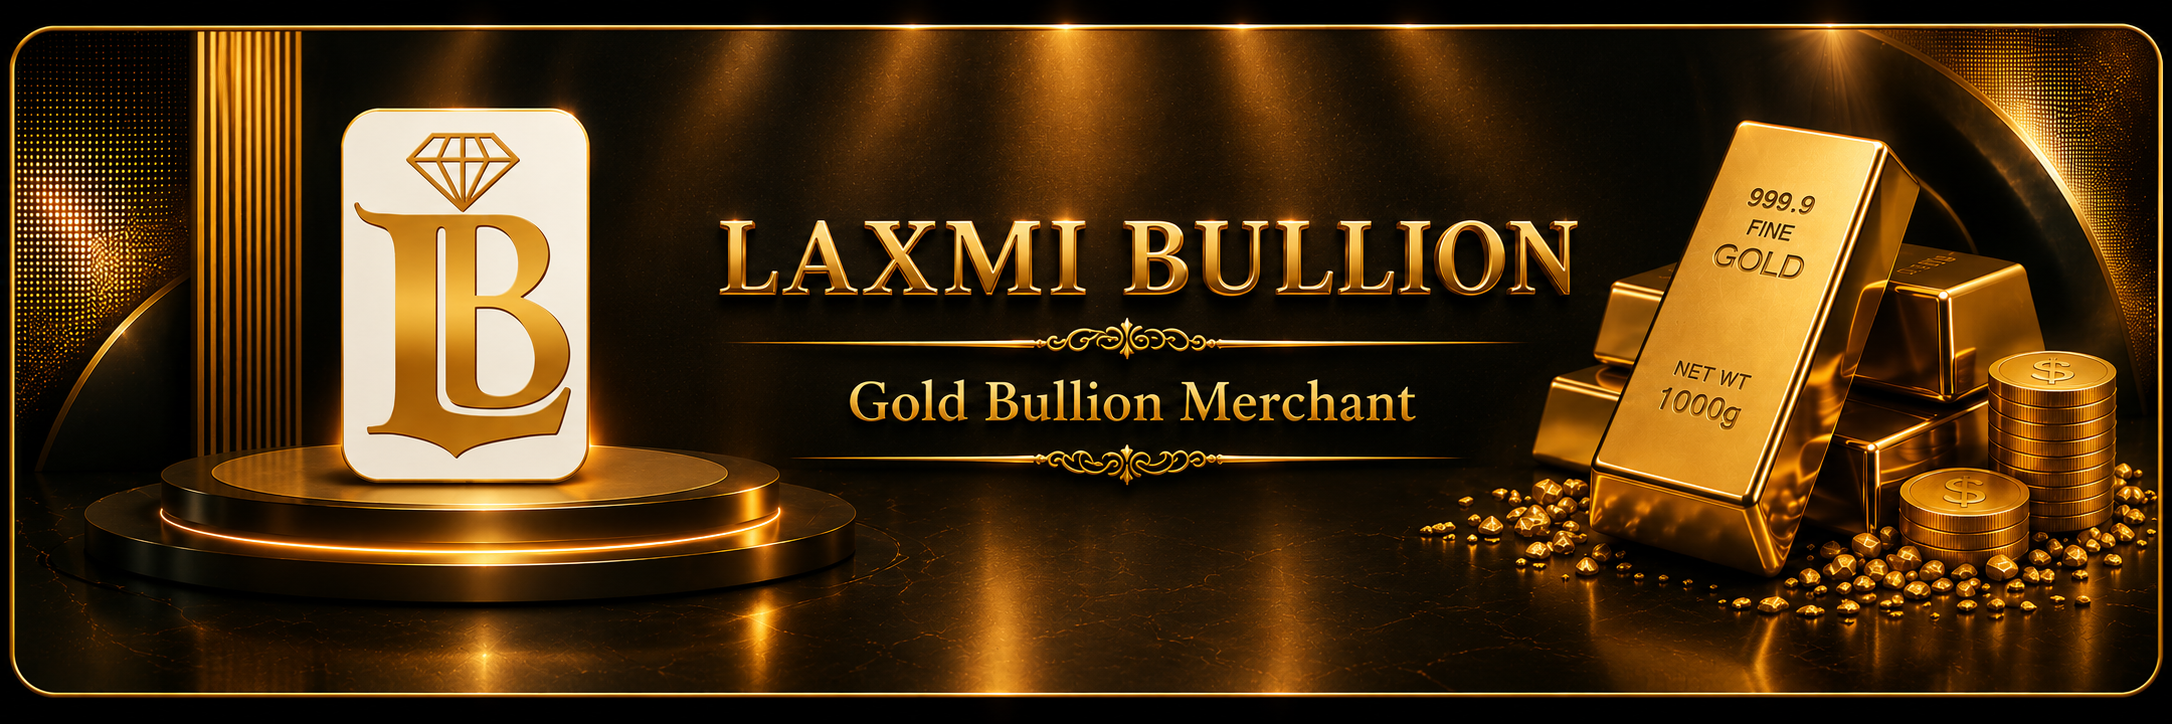
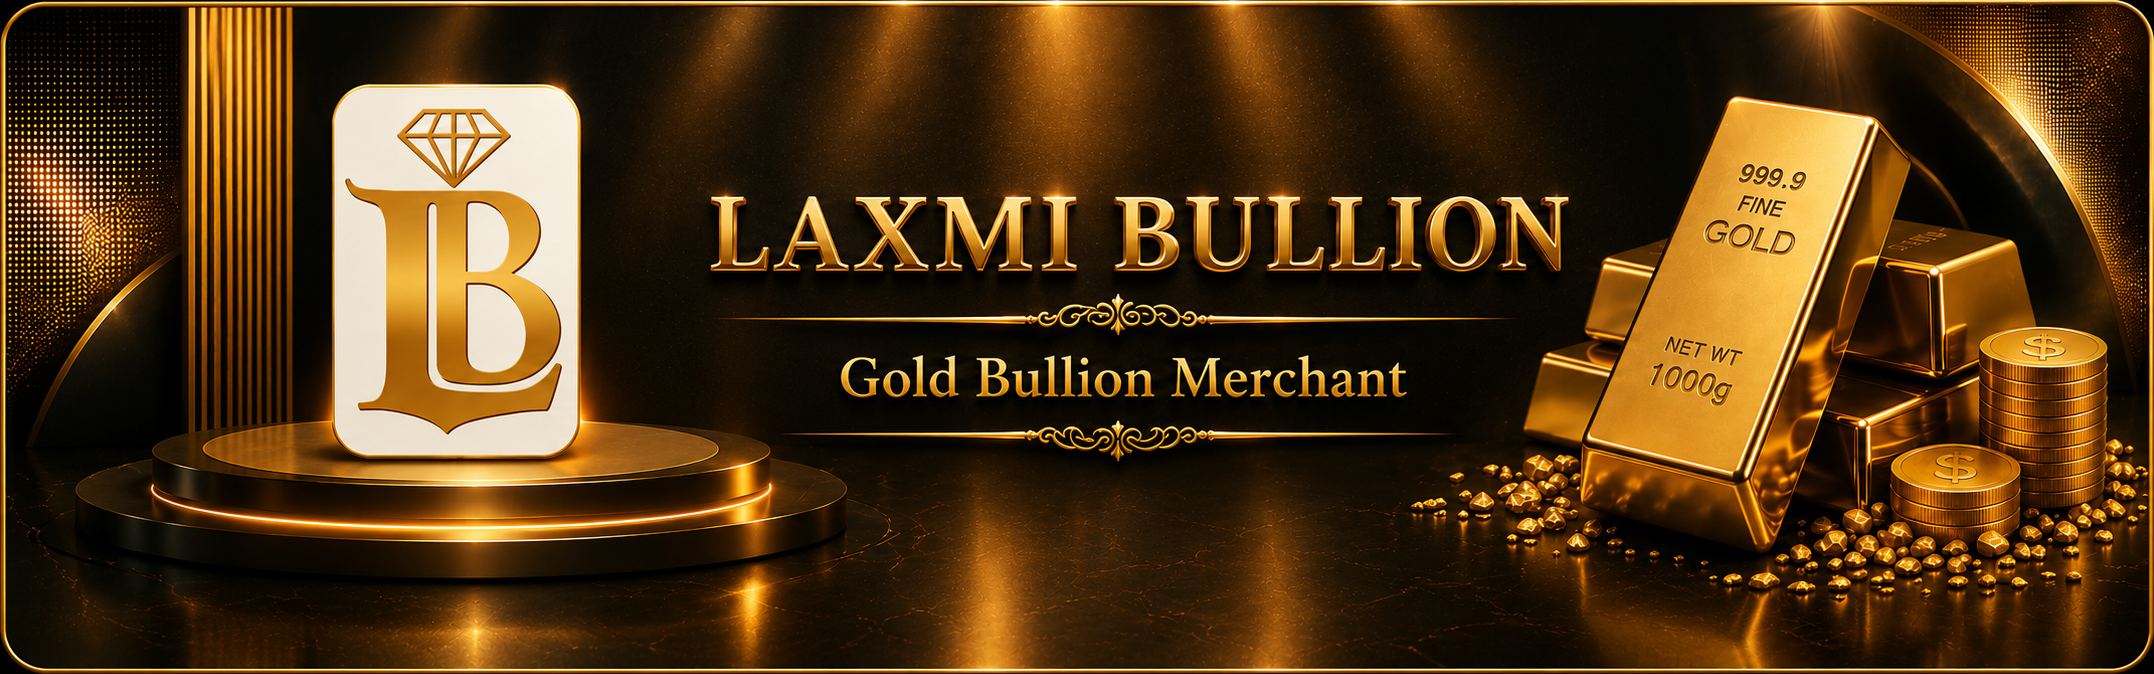
Fix mobile header sizing and app download detection
- Adjust hero aspect-ratios for mobile: 16/9 at 820px, 2/1 at 560px
- Add object-position tuning and tighter contact padding on small screens
- Add missing #download-row and #download-link elements to HTML
- Rewrite device detection: primary via userAgentData.getHighEntropyValues,
  fallback via UA string regex with iPadOS 13+ handling
- Update header banner image

diff --git a/assets/js/site.js b/assets/js/site.js
@@ -3,40 +3,78 @@
   const appStoreUrl = "https://apps.apple.com/in/app/shubhlaxmi-jewellers/id1578511201";
   const downloadRow = document.getElementById("download-row");
   const downloadLink = document.getElementById("download-link");
-
-  if (!downloadRow || !downloadLink) {
-    return;
-  }
-
-  const userAgent = navigator.userAgent || "";
-  const platform = (navigator.userAgentData && navigator.userAgentData.platform) || navigator.platform || "";
-  const isAndroid = /Android/i.test(userAgent) || /Android/i.test(platform);
-  const isAppleMobile = /iPhone|iPad|iPod/i.test(userAgent) || (/Mac/i.test(platform) && navigator.maxTouchPoints > 1);
-
   const fallbackRow = document.getElementById("download-fallback");
 
-  if (!fallbackRow) {
+  if (!downloadRow || !downloadLink || !fallbackRow) {
     return;
   }
 
-  if (isAndroid) {
-    downloadLink.href = playStoreUrl;
-    downloadLink.textContent = "Shubhlaxmi Jewellers – Apps on Google Play";
-    downloadLink.title = "Open Shubhlaxmi Jewellers on Google Play";
+  function showDownload(url, label, title) {
+    downloadLink.href = url;
+    downloadLink.textContent = label;
+    downloadLink.title = title;
     downloadRow.hidden = false;
     fallbackRow.hidden = true;
+  }
+
+  function showFallback() {
+    downloadRow.hidden = true;
+    fallbackRow.hidden = false;
+  }
+
+  // Modern detection via User-Agent Client Hints (Chromium 90+)
+  if (navigator.userAgentData && navigator.userAgentData.getHighEntropyValues) {
+    navigator.userAgentData
+      .getHighEntropyValues(["platform", "platformVersion"])
+      .then(function (ua) {
+        var platform = (ua.platform || "").toLowerCase();
+
+        if (platform === "android") {
+          showDownload(
+            playStoreUrl,
+            "Shubhlaxmi Jewellers \u2013 Apps on Google Play",
+            "Open Shubhlaxmi Jewellers on Google Play"
+          );
+        } else if (platform === "ios" || platform === "macos") {
+          showDownload(
+            appStoreUrl,
+            "Shubhlaxmi Jewellers App \u2013 App Store",
+            "Open Shubhlaxmi Jewellers App on the App Store"
+          );
+        } else {
+          showFallback();
+        }
+      })
+      .catch(function () {
+        detectViaUAString();
+    });
     return;
   }
 
-  if (isAppleMobile) {
-    downloadLink.href = appStoreUrl;
-    downloadLink.textContent = "Shubhlaxmi Jewellers App - App Store";
-    downloadLink.title = "Open Shubhlaxmi Jewellers App on the App Store";
-    downloadRow.hidden = false;
-    fallbackRow.hidden = true;
-    return;
+  // Fallback for Safari, Firefox, older browsers
+  function detectViaUAString() {
+    var ua = navigator.userAgent || "";
+    var isAndroid = /Android/i.test(ua);
+    var isIOS = /iPhone|iPad|iPod/i.test(ua);
+    // iPad on iPadOS 13+ reports as Mac; check maxTouchPoints
+    var isIPadOS = /Macintosh/i.test(ua) && navigator.maxTouchPoints > 1;
+
+    if (isAndroid) {
+      showDownload(
+        playStoreUrl,
+        "Shubhlaxmi Jewellers \u2013 Apps on Google Play",
+        "Open Shubhlaxmi Jewellers on Google Play"
+      );
+    } else if (isIOS || isIPadOS) {
+      showDownload(
+        appStoreUrl,
+        "Shubhlaxmi Jewellers App \u2013 App Store",
+        "Open Shubhlaxmi Jewellers App on the App Store"
+      );
+    } else {
+      showFallback();
+    }
   }
 
-  downloadRow.hidden = true;
-  fallbackRow.hidden = false;
+  detectViaUAString();
 })();

diff --git a/index.html b/index.html
@@ -84,6 +84,14 @@
                                 </div>
                             </div>
 
+                            <div class="detail-row" id="download-row" hidden>
+                                <div class="icon-circle"><i class="fa-solid fa-download"></i></div>
+                                <div class="detail-label"><span>Download</span><span>:</span></div>
+                                <div class="detail-value">
+                                    <a id="download-link" href="#" target="_blank" rel="noreferrer"></a>
+                                </div>
+                            </div>
+
                             <div class="detail-row" id="download-fallback" hidden>
                                 <div class="icon-circle"><i class="fa-solid fa-info"></i></div>
                                 <div class="detail-label"><span>Download</span><span>:</span></div>

diff --git a/assets/css/site.css b/assets/css/site.css
@@ -362,7 +362,7 @@ a {
   }
 
   .hero {
-    aspect-ratio: 3 / 1.35;
+    aspect-ratio: 16 / 9;
   }
 
   .contact {
@@ -407,7 +407,11 @@ a {
 
 @media (max-width: 560px) {
   .hero {
-    aspect-ratio: 3 / 1.55;
+    aspect-ratio: 2 / 1;
+  }
+
+  .hero-bg {
+    object-position: center 40%;
   }
 
   .hero-copy {
@@ -438,5 +442,9 @@ a {
 
   .details {
     padding: 1.4rem 1.1rem 1.4rem;
+  }
+
+  .contact {
+    padding: 1.2rem 1rem 1rem;
   }
 }
